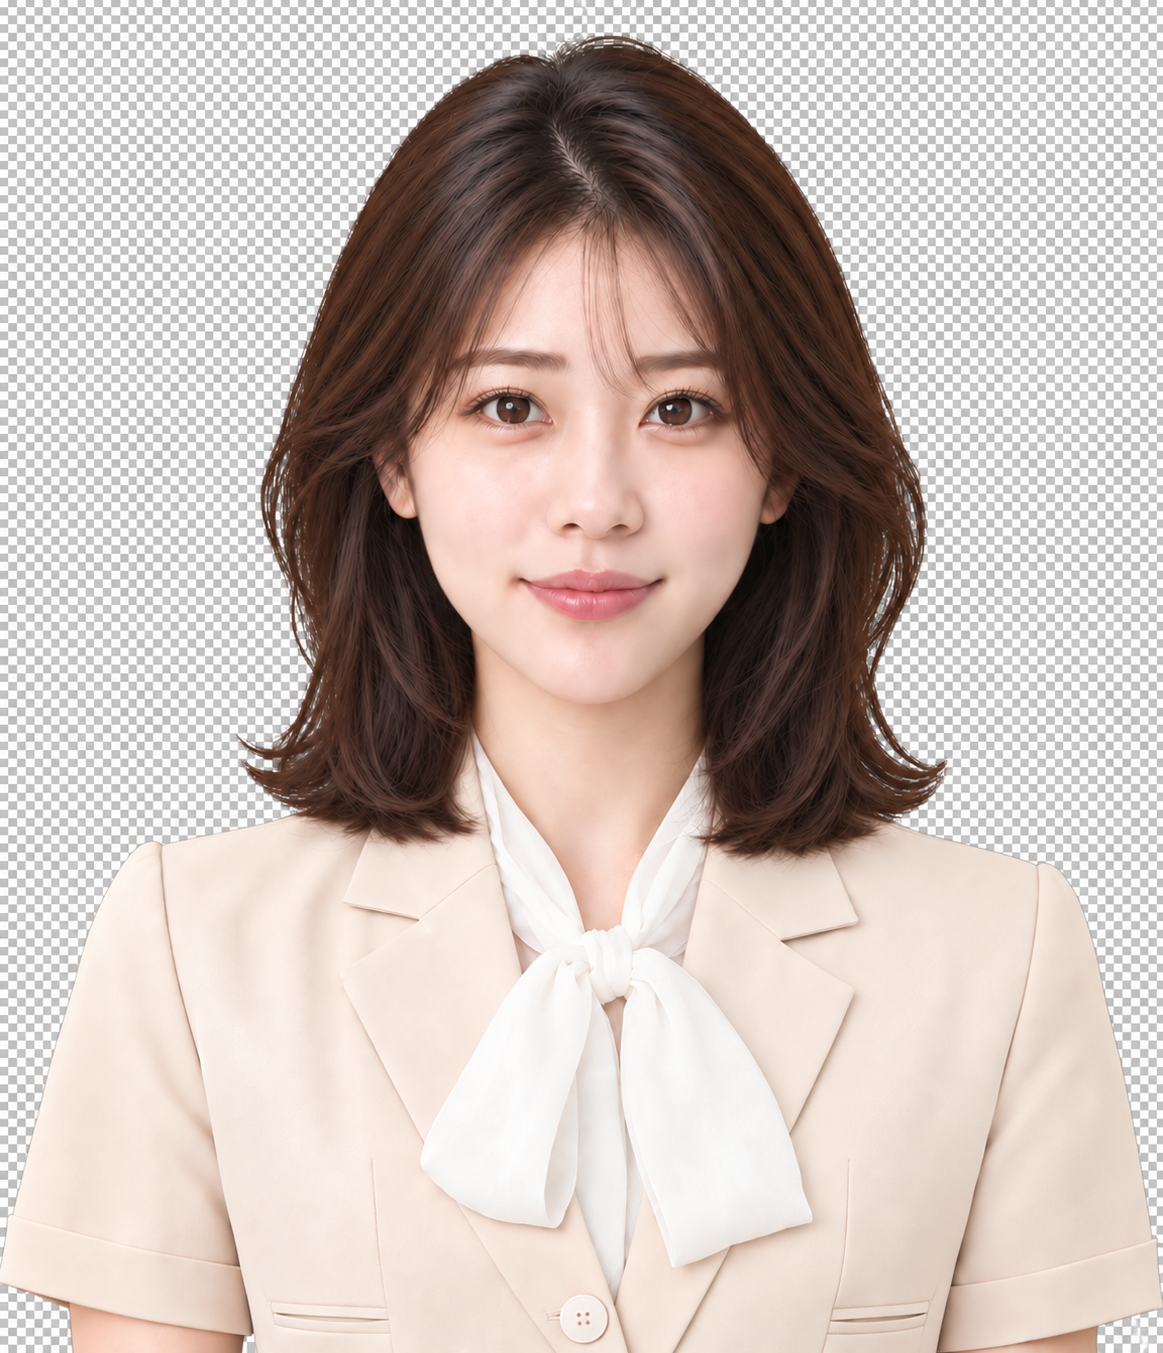
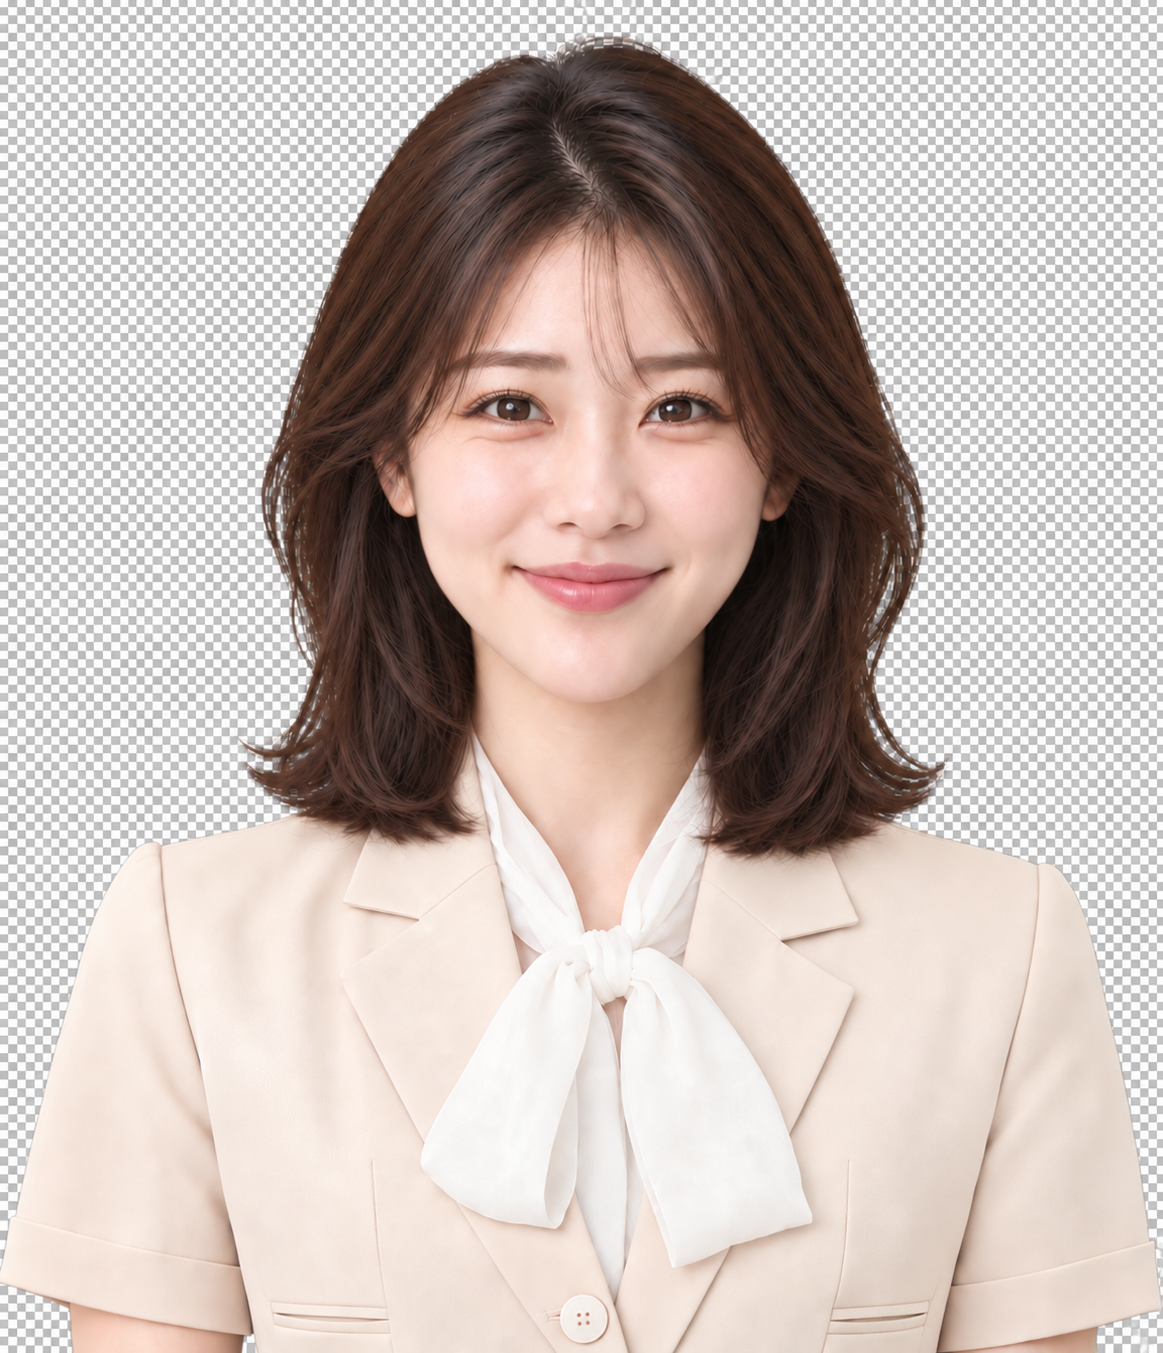
真人模式：加入眼神移動與更明顯的開心表情
- 新增 5 張以底圖為參考生成、像素對齊的眼神圖（左右微偏、左右、上看）
- 依狀態排程眼神：待機／說話偶爾瞥視，聆聽多半注視，思考時往上或旁邊看
- 眼神以硬切模擬眼球跳視，大幅跳視時可能伴隨眨眼；避免兩張不同視線
  的照片混合出雙重瞳孔：表情轉場與挑眉時眼神回正
- emotion-happy 換成月牙眼、蘋果肌上提的版本，並以 rig.emotionMouth
  錨點讓嘴型變形過渡，避免淡化出兩條唇線
- harness 加入 grab() 方便擷取畫面驗證

diff --git a/js/avatar/true-man-avatar-controller.js b/js/avatar/true-man-avatar-controller.js
@@ -5,6 +5,16 @@ const DOUBLE_BLINK_CHANCE = 0.15;
 const HALF_BLINK_CHANCE = 0.18;
 const BROW_LIFT_WEIGHT = 0.28;
 const BLINK_INTERVALS = { idle: [2, 6], listening: [3, 7], thinking: [2.5, 6], speaking: [2, 5] };
+// Eyes jump between gaze photos with a hard cut, like a real saccade; any
+// partial blend of two photos with different gaze shows two irises.
+const STRONG_GAZES = new Set(["left", "right", "up"]);
+// Per state: how long the eyes rest on centre, how long they stay away, and where they go.
+const GAZE_PATTERNS = {
+  idle: { center: [1.5, 4], away: [0.5, 1.4], targets: ["left-soft", "right-soft", "left-soft", "right-soft", "left", "right"] },
+  listening: { center: [2.5, 5.5], away: [0.3, 0.8], targets: ["left-soft", "right-soft"] },
+  speaking: { center: [1.2, 3.2], away: [0.4, 1.2], targets: ["left-soft", "right-soft", "left-soft", "right-soft", "left", "right", "up"] },
+  thinking: { center: [0.3, 0.7], away: [1.4, 3], targets: ["up", "left", "right", "up"] },
+};
 
 // Head motion for a single frontal photograph: pixel nods and radian leans
 // around the chest pivot. Hand gestures fall back to a small nod and lean.
@@ -57,7 +67,7 @@ export class TrueManAvatarController {
     this.callbacks = callbacks;
     this.context = canvas.getContext("2d", { alpha: true });
     this.manifest = null;
-    this.images = { base: null, blink: null, visemes: new Map(), emotions: new Map() };
+    this.images = { base: null, blink: null, visemes: new Map(), emotions: new Map(), gaze: new Map() };
     this.loaded = false;
     this.state = DEFAULT_STATE;
     this.emotion = "neutral";
@@ -89,6 +99,8 @@ export class TrueManAvatarController {
     this.browStartedAt = -Infinity;
     this.browCooldownUntil = 0;
     this.grainPattern = null;
+    this.gaze = "center";
+    this.nextGazeAt = randomBetween(1, 3);
     this.reducedMotion = Boolean(globalThis.matchMedia?.("(prefers-reduced-motion: reduce)").matches);
     this.resizeObserver = globalThis.ResizeObserver ? new ResizeObserver(() => this.resize()) : null;
     this.resizeObserver?.observe(canvas);
@@ -121,6 +133,7 @@ export class TrueManAvatarController {
         ["blink", manifest.blink],
         ...Object.entries(manifest.visemes || {}).map(([name, src]) => [`viseme:${name}`, src]),
         ...Object.entries(manifest.emotions || {}).filter(([name]) => name !== "neutral").map(([name, src]) => [`emotion:${name}`, src]),
+        ...Object.entries(manifest.gaze || {}).map(([name, src]) => [`gaze:${name}`, src]),
       ].filter(([, src]) => src);
       const variants = await Promise.all(variantEntries.map(async ([name, src]) => [name, await loadImage(resolveAsset(src))]));
       if (token !== this.loadToken) return false;
@@ -128,6 +141,7 @@ export class TrueManAvatarController {
       this.images.blink = variants.find(([name]) => name === "blink")?.[1] || null;
       this.images.visemes = new Map(variants.filter(([name]) => name.startsWith("viseme:")).map(([name, image]) => [name.slice(7), image]));
       this.images.emotions = new Map(variants.filter(([name]) => name.startsWith("emotion:")).map(([name, image]) => [name.slice(8), image]));
+      this.images.gaze = new Map(variants.filter(([name]) => name.startsWith("gaze:")).map(([name, image]) => [name.slice(5), image]));
       this.loaded = true;
       this.resize();
       this.render();
@@ -143,7 +157,7 @@ export class TrueManAvatarController {
     const next = state || DEFAULT_STATE;
     if (next === this.state) return;
     this.state = next;
-    if (next === "thinking") this.triggerBlink();
+    if (next === "thinking") { this.triggerBlink(); this.nextGazeAt = this.elapsed + randomBetween(0.15, 0.4); }
     if (next === "listening") this.nextListenNodAt = this.elapsed + randomBetween(2, 5);
   }
 
@@ -157,6 +171,8 @@ export class TrueManAvatarController {
     this.emotionReleaseAt = null;
     if (emotion === this.emotion) return;
     if (!immediate) this.triggerBlink();
+    // Emotion photos look at the viewer; blending them with averted eyes would ghost.
+    this.setGaze("center");
     this.emotionStartWeights = { ...this.emotionWeights };
     this.emotion = emotion;
     this.emotionMix = 0;
@@ -191,6 +207,7 @@ export class TrueManAvatarController {
     this.elapsed += deltaTime;
     this.thinkingPose += ((this.state === "thinking" ? 1 : 0) - this.thinkingPose) * (1 - Math.exp(-deltaTime * 3));
     if (!this.reducedMotion) this.updateHeadMotion(deltaTime, isSpeaking);
+    this.updateGaze(isSpeaking);
     if (this.emotionReleaseAt !== null) {
       if (isSpeaking) this.emotionReleaseAt = Math.max(this.emotionReleaseAt, this.elapsed + 1.8);
       else if (this.elapsed >= this.emotionReleaseAt) this.setEmotion("neutral", { immediate: true });
@@ -228,6 +245,28 @@ export class TrueManAvatarController {
       this.browCooldownUntil = this.elapsed + randomBetween(0.9, 1.8);
     }
     this.levelAverage += (level - this.levelAverage) * (1 - Math.exp(-deltaTime * 1.5));
+  }
+
+  updateGaze(isSpeaking) {
+    if (this.reducedMotion || this.emotion !== "neutral" || this.emotionMix < 1) { this.setGaze("center"); return; }
+    if (this.elapsed < this.nextGazeAt || !this.images.gaze.size) return;
+    const pattern = GAZE_PATTERNS[isSpeaking ? "speaking" : this.state] || GAZE_PATTERNS.idle;
+    const targets = pattern.targets.filter((name) => this.images.gaze.has(name));
+    const goAway = this.gaze === "center" && targets.length;
+    this.setGaze(goAway ? targets[Math.floor(Math.random() * targets.length)] : "center");
+    const [min, max] = goAway ? pattern.away : pattern.center;
+    this.nextGazeAt = this.elapsed + randomBetween(min, max);
+  }
+
+  setGaze(gaze) {
+    if (gaze === this.gaze) return;
+    // Large saccades are often accompanied by a blink.
+    if ((STRONG_GAZES.has(gaze) || STRONG_GAZES.has(this.gaze)) && Math.random() < 0.4) this.triggerBlink();
+    this.gaze = gaze;
+  }
+
+  gazeImage(gaze) {
+    return this.images.gaze.get(gaze) || this.images.base;
   }
 
   updateBlink(deltaTime) {
@@ -305,20 +344,32 @@ export class TrueManAvatarController {
 
     const emotionRegion = this.manifest.regions.emotion || this.manifest.regions.face;
     const expressions = Object.entries(this.emotionWeights).map(([name, weight]) => ({
-      image: name === "neutral" ? this.images.base : this.images.emotions.get(name), weight,
+      name, image: name === "neutral" ? this.images.base : this.images.emotions.get(name), weight,
     }));
-    const browLift = this.reducedMotion || !this.images.emotions.has("surprised") ? 0 :
+    // The surprised photo looks at the viewer, so only flash brows on a centred gaze.
+    const browLift = this.reducedMotion || this.gaze !== "center" || !this.images.emotions.has("surprised") ? 0 :
       getBrowLift(this.elapsed - this.browStartedAt) * BROW_LIFT_WEIGHT;
-    const eyeExpressions = browLift > 0.005 ? [
-      ...expressions.map((entry) => ({ ...entry, weight: entry.weight * (1 - browLift) })),
-      { image: this.images.emotions.get("surprised"), weight: browLift },
-    ] : expressions;
+    // Gaze photos only replace the neutral eyes; an emotion photo keeps its own eyes.
+    const eyeExpressions = expressions.map((entry) => ({
+      ...entry, image: entry.name === "neutral" ? this.gazeImage(this.gaze) : entry.image, weight: entry.weight * (1 - browLift),
+    }));
+    if (browLift > 0.005) eyeExpressions.push({ image: this.images.emotions.get("surprised"), weight: browLift });
     if (emotionRegion) this.drawFeature(eyeExpressions, emotionRegion);
     const mouthRegion = this.manifest.regions.mouth;
     const rig = this.manifest.rig;
-    if (mouthRegion) {
-      if (rig?.mouth && this.mouthWeight > 0) {
-        const rest = rig.mouth.neutral;
+    if (mouthRegion && rig?.mouth) {
+      // Emotion mouths such as a wide smile sit elsewhere; morph lips between
+      // their anchors instead of dissolving, which would show two lip lines.
+      const mouthExpressions = expressions.map((entry) => ({
+        ...entry,
+        bounds: rig.emotionMouth?.[entry.name]?.inner || rig.mouth.neutral,
+        outer: rig.emotionMouth?.[entry.name]?.outer || rig.mouthOuter.neutral,
+      }));
+      const blendAnchors = (key) => rig.mouth.neutral.map((_, index) =>
+        mouthExpressions.reduce((sum, entry) => sum + entry[key][index] * entry.weight, 0));
+      const rest = blendAnchors("bounds");
+      const restOuter = blendAnchors("outer");
+      if (this.mouthWeight > 0) {
         // Use the open /o/ photo for rounded vowels; the /u/ photo itself is
         // strongly pursed. Distinguish /u/ with a smaller aperture, not thicker lips.
         const relaxedWeights = {};
@@ -347,7 +398,6 @@ export class TrueManAvatarController {
         const nativeGap = target[3] - target[1];
         target[3] = target[1] + nativeGap * (1 - roundO - roundU) +
           (4 + opening * 42) * roundO + (4 + opening * 30) * roundU;
-        const restOuter = rig.mouthOuter.neutral;
         const targetOuter = [
           centerX + (restOuter[0] - centerX) *  MOUTH_WIDTH_SCALE * (1 - roundO * 0.14 - roundU * 0.2),
           target[1] - (rest[1] - restOuter[1]) * (1 - 0.12 * articulation),
@@ -358,11 +408,11 @@ export class TrueManAvatarController {
         // never the opacity of an open mouth laid over the closed base photograph.
         const textureMix = articulation;
         this.drawFeature([
-          ...expressions.map((entry) => ({ ...entry, weight: entry.weight * (1 - textureMix), bounds: rest, outer: restOuter })),
+          ...mouthExpressions.map((entry) => ({ ...entry, weight: entry.weight * (1 - textureMix) })),
           ...sources.map(([name, weight]) => ({ image: this.images.visemes.get(name), weight: weight * textureMix, bounds: rig.mouth[name], outer: rig.mouthOuter[name] })),
         ], mouthRegion, target, targetOuter);
-      } else this.drawFeature(expressions, mouthRegion);
-    }
+      } else this.drawFeature(mouthExpressions, mouthRegion, rest, restOuter);
+    } else if (mouthRegion) this.drawFeature(expressions, mouthRegion);
     if (rig?.eyes && this.images.blink && this.blinkProgress > 0) {
       const closure = easeInOutSine(this.blinkProgress) * this.blinkDepth;
       for (const eye of rig.eyes) {
@@ -452,7 +502,7 @@ export class TrueManAvatarController {
     this.loadToken = (this.loadToken || 0) + 1;
     this.resizeObserver?.disconnect();
     this.motionMedia?.removeEventListener?.("change", this.motionListener);
-    this.images = { base: null, blink: null, visemes: new Map(), emotions: new Map() };
+    this.images = { base: null, blink: null, visemes: new Map(), emotions: new Map(), gaze: new Map() };
     this.patchCache?.clear();
     this.loaded = false;
     this.context?.clearRect(0, 0, this.canvas.width, this.canvas.height);

diff --git a/tools/true-man-harness.html b/tools/true-man-harness.html
@@ -39,6 +39,22 @@
       pause() { paused = true; },
       resume() { paused = false; last = performance.now(); },
       step(seconds, frames = 1) { for (let i = 0; i < frames; i += 1) tick(seconds / frames); },
+      // Returns a JPEG data URL of a manifest-space region of the rendered canvas.
+      grab(region, scale = 1) {
+        const canvas = $("avatar");
+        const design = avatar.manifest.canvas;
+        const fit = Math.min(canvas.width / design.width, canvas.height / design.height);
+        const originX = (canvas.width - design.width * fit) / 2;
+        const originY = (canvas.height - design.height * fit) / 2;
+        const shot = document.createElement("canvas");
+        shot.width = region[2] * fit * scale;
+        shot.height = region[3] * fit * scale;
+        const context = shot.getContext("2d");
+        context.fillStyle = getComputedStyle(document.body).backgroundColor;
+        context.fillRect(0, 0, shot.width, shot.height);
+        context.drawImage(canvas, originX + region[0] * fit, originY + region[1] * fit, region[2] * fit, region[3] * fit, 0, 0, shot.width, shot.height);
+        return shot.toDataURL("image/jpeg", 0.92);
+      },
     };
 
     function syntheticMouth(time) {
